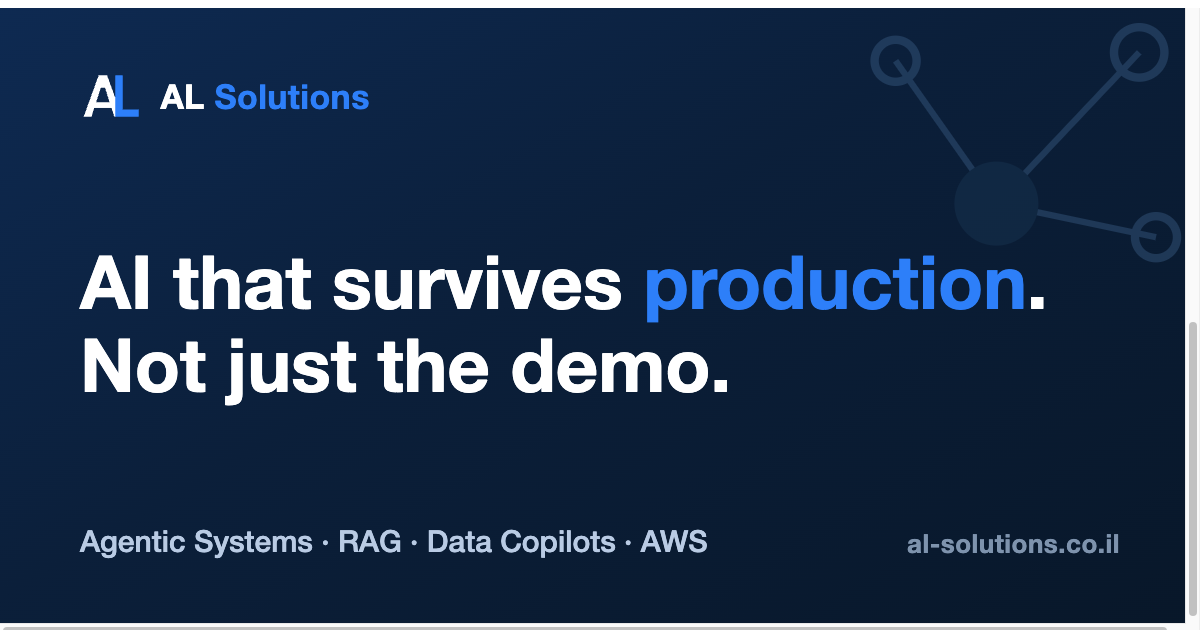
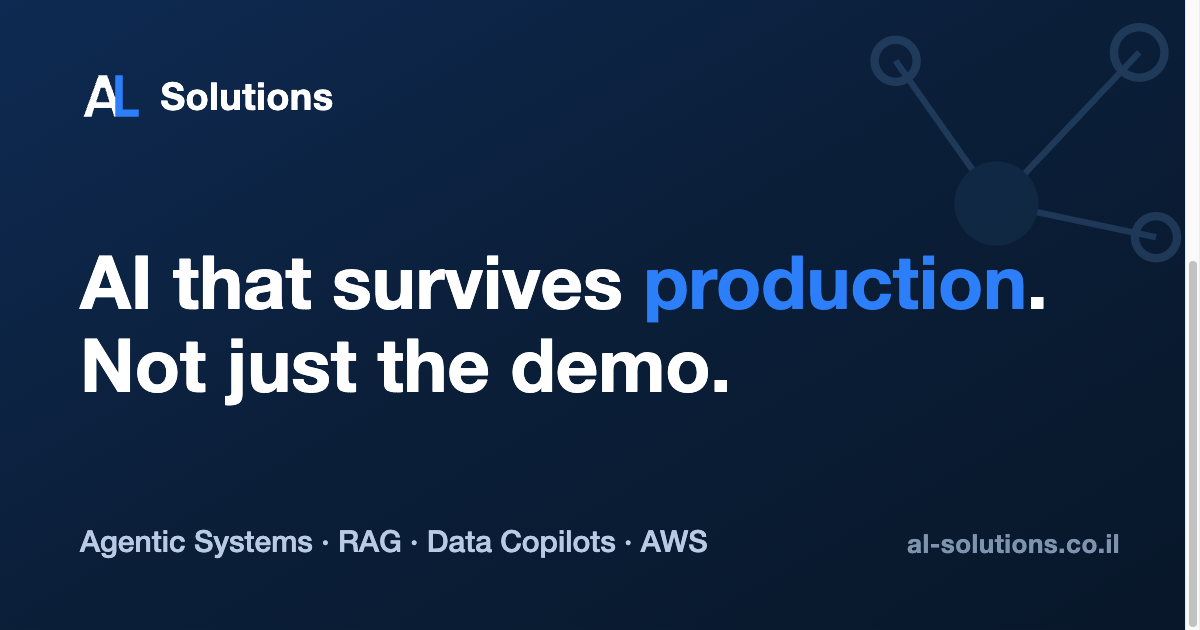
v2 lockup: the mark supplies the AL, wordmark text becomes Solutions only
Applied across all 9 pages, headers and footers, plus regenerated OG cards.
Per Asaf's catch that the header kept the v1 two-color AL Solutions text.

diff --git a/assets/css/style.css b/assets/css/style.css
@@ -103,13 +103,12 @@ a:focus-visible, button:focus-visible, input:focus-visible, textarea:focus-visib
 .brand {
   display: flex;
   align-items: center;
-  gap: 12px;
+  gap: 9px;
   text-decoration: none;
-  direction: ltr; /* wordmark always LTR */
+  direction: ltr; /* wordmark always LTR; the mark supplies the "AL" */
 }
 .brand img { height: 34px; width: auto; }
-.brand .brand-name { font-size: 21px; font-weight: 800; color: var(--white); letter-spacing: .3px; }
-.brand .brand-name b { color: var(--blue); font-weight: 800; }
+.brand .brand-name { font-size: 24px; font-weight: 800; color: var(--white); letter-spacing: .3px; }
 
 .site-nav { display: flex; align-items: center; gap: 4px 18px; flex-wrap: wrap; }
 .site-nav a {
@@ -384,7 +383,7 @@ h2 { font-size: clamp(26px, 4vw, 34px); font-weight: 700; line-height: 1.25; mar
 .footer-links { display: flex; gap: 22px; flex-wrap: wrap; }
 .footer-links a { display: inline-block; padding-block: 10px; } /* 24px+ target size */
 .site-footer .brand img { height: 26px; }
-.site-footer .brand .brand-name { font-size: 16px; }
+.site-footer .brand .brand-name { font-size: 18px; }
 
 /* ---------- Legal / content pages ---------- */
 .page-main { padding-block: 64px; }

diff --git a/accessibility/index.html b/accessibility/index.html
@@ -18,7 +18,7 @@
   <div class="container">
     <a class="brand" href="/" aria-label="AL Solutions, דף הבית">
       <img src="/assets/img/logo-icon-on-dark.svg" alt="" width="41" height="34">
-      <span class="brand-name">AL <b>Solutions</b></span>
+      <span class="brand-name">Solutions</span>
     </a>
     <nav class="site-nav" aria-label="ניווט ראשי">
       <a href="/">דף הבית</a>
@@ -64,7 +64,7 @@
   <div class="container">
     <a class="brand" href="/" aria-label="AL Solutions, דף הבית">
       <img src="/assets/img/logo-icon-on-dark.svg" alt="" width="31" height="26">
-      <span class="brand-name">AL <b>Solutions</b></span>
+      <span class="brand-name">Solutions</span>
     </a>
     <nav class="footer-links" aria-label="קישורי מידע">
       <a href="/privacy/">מדיניות פרטיות</a>

diff --git a/en/accessibility/index.html b/en/accessibility/index.html
@@ -18,7 +18,7 @@
   <div class="container">
     <a class="brand" href="/en/" aria-label="AL Solutions, home">
       <img src="/assets/img/logo-icon-on-dark.svg" alt="" width="41" height="34">
-      <span class="brand-name">AL <b>Solutions</b></span>
+      <span class="brand-name">Solutions</span>
     </a>
     <nav class="site-nav" aria-label="Main navigation">
       <a href="/en/">Home</a>
@@ -64,7 +64,7 @@
   <div class="container">
     <a class="brand" href="/en/" aria-label="AL Solutions, home">
       <img src="/assets/img/logo-icon-on-dark.svg" alt="" width="31" height="26">
-      <span class="brand-name">AL <b>Solutions</b></span>
+      <span class="brand-name">Solutions</span>
     </a>
     <nav class="footer-links" aria-label="Legal links">
       <a href="/en/privacy/">Privacy policy</a>

diff --git a/en/index.html b/en/index.html
@@ -53,7 +53,7 @@
   <div class="container">
     <a class="brand" href="/en/" aria-label="AL Solutions, home">
       <img src="/assets/img/logo-icon-on-dark.svg" alt="" width="41" height="34">
-      <span class="brand-name">AL <b>Solutions</b></span>
+      <span class="brand-name">Solutions</span>
     </a>
     <nav class="site-nav" aria-label="Main navigation">
       <a href="#services">Services</a>
@@ -248,7 +248,7 @@
   <div class="container">
     <a class="brand" href="/en/" aria-label="AL Solutions, home">
       <img src="/assets/img/logo-icon-on-dark.svg" alt="" width="31" height="26">
-      <span class="brand-name">AL <b>Solutions</b></span>
+      <span class="brand-name">Solutions</span>
     </a>
     <nav class="footer-links" aria-label="Legal links">
       <a href="/en/privacy/">Privacy policy</a>

diff --git a/en/privacy/index.html b/en/privacy/index.html
@@ -18,7 +18,7 @@
   <div class="container">
     <a class="brand" href="/en/" aria-label="AL Solutions, home">
       <img src="/assets/img/logo-icon-on-dark.svg" alt="" width="41" height="34">
-      <span class="brand-name">AL <b>Solutions</b></span>
+      <span class="brand-name">Solutions</span>
     </a>
     <nav class="site-nav" aria-label="Main navigation">
       <a href="/en/">Home</a>
@@ -67,7 +67,7 @@
   <div class="container">
     <a class="brand" href="/en/" aria-label="AL Solutions, home">
       <img src="/assets/img/logo-icon-on-dark.svg" alt="" width="31" height="26">
-      <span class="brand-name">AL <b>Solutions</b></span>
+      <span class="brand-name">Solutions</span>
     </a>
     <nav class="footer-links" aria-label="Legal links">
       <a href="/en/privacy/">Privacy policy</a>

diff --git a/index.html b/index.html
@@ -53,7 +53,7 @@
   <div class="container">
     <a class="brand" href="/" aria-label="AL Solutions, דף הבית">
       <img src="/assets/img/logo-icon-on-dark.svg" alt="" width="41" height="34">
-      <span class="brand-name">AL <b>Solutions</b></span>
+      <span class="brand-name">Solutions</span>
     </a>
     <nav class="site-nav" aria-label="ניווט ראשי">
       <a href="#services">שירותים</a>
@@ -248,7 +248,7 @@
   <div class="container">
     <a class="brand" href="/" aria-label="AL Solutions, דף הבית">
       <img src="/assets/img/logo-icon-on-dark.svg" alt="" width="31" height="26">
-      <span class="brand-name">AL <b>Solutions</b></span>
+      <span class="brand-name">Solutions</span>
     </a>
     <nav class="footer-links" aria-label="קישורי מידע">
       <a href="/privacy/">מדיניות פרטיות</a>

diff --git a/privacy/index.html b/privacy/index.html
@@ -18,7 +18,7 @@
   <div class="container">
     <a class="brand" href="/" aria-label="AL Solutions, דף הבית">
       <img src="/assets/img/logo-icon-on-dark.svg" alt="" width="41" height="34">
-      <span class="brand-name">AL <b>Solutions</b></span>
+      <span class="brand-name">Solutions</span>
     </a>
     <nav class="site-nav" aria-label="ניווט ראשי">
       <a href="/">דף הבית</a>
@@ -67,7 +67,7 @@
   <div class="container">
     <a class="brand" href="/" aria-label="AL Solutions, דף הבית">
       <img src="/assets/img/logo-icon-on-dark.svg" alt="" width="31" height="26">
-      <span class="brand-name">AL <b>Solutions</b></span>
+      <span class="brand-name">Solutions</span>
     </a>
     <nav class="footer-links" aria-label="קישורי מידע">
       <a href="/privacy/">מדיניות פרטיות</a>

diff --git a/404.html b/404.html
@@ -13,7 +13,7 @@
   <div class="container">
     <a class="brand" href="/" aria-label="AL Solutions, דף הבית">
       <img src="/assets/img/logo-icon-on-dark.svg" alt="" width="41" height="34">
-      <span class="brand-name">AL <b>Solutions</b></span>
+      <span class="brand-name">Solutions</span>
     </a>
   </div>
 </header>

diff --git a/en/thanks/index.html b/en/thanks/index.html
@@ -13,7 +13,7 @@
   <div class="container">
     <a class="brand" href="/en/" aria-label="AL Solutions, home">
       <img src="/assets/img/logo-icon-on-dark.svg" alt="" width="41" height="34">
-      <span class="brand-name">AL <b>Solutions</b></span>
+      <span class="brand-name">Solutions</span>
     </a>
   </div>
 </header>

diff --git a/thanks/index.html b/thanks/index.html
@@ -13,7 +13,7 @@
   <div class="container">
     <a class="brand" href="/" aria-label="AL Solutions, דף הבית">
       <img src="/assets/img/logo-icon-on-dark.svg" alt="" width="41" height="34">
-      <span class="brand-name">AL <b>Solutions</b></span>
+      <span class="brand-name">Solutions</span>
     </a>
   </div>
 </header>